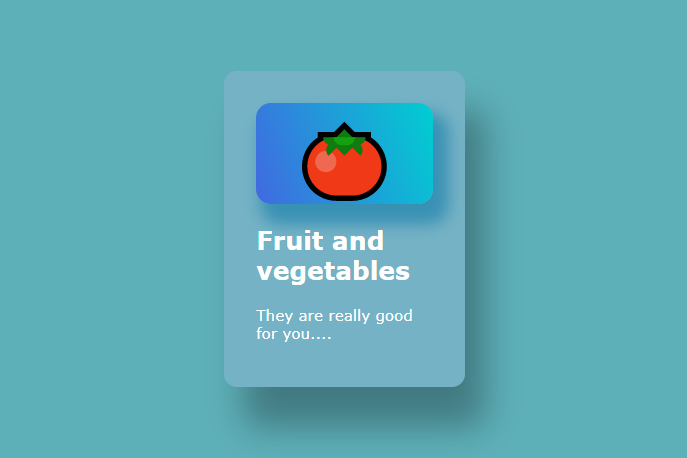
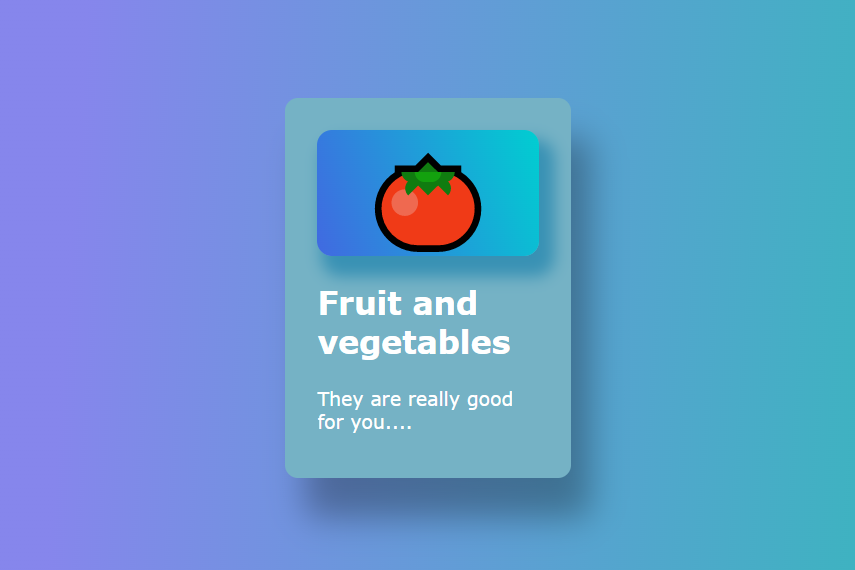
Projects recolored, new thumbnails

diff --git a/react-portfolio-gergely/src/Components/Projects.jsx b/react-portfolio-gergely/src/Components/Projects.jsx
@@ -14,7 +14,7 @@ const projects = {
     description:
       "React App that can generate random wisdoms fetched from an API; stores information about them in a searchable library and in local storage",
     tech: "RESTful API, React, CSS ",
-    link: "https://630f24bd5d2985782545567d--brilliant-semolina-fe6b3a.netlify.app/",
+    link: "https://brilliant-semolina-fe6b3a.netlify.app/",
     thumbnail: dailyImg,
     github:
       "https://github.com/gimesi13/Learning-React/tree/main/wishes-project",
@@ -23,7 +23,7 @@ const projects = {
     name: "React Todo",
     description: "Todo List with local storage built with React",
     tech: " React, CSS ",
-    link: "https://630f46dba4f93a128ec222d8--whimsical-cascaron-343463.netlify.app/",
+    link: "https://whimsical-cascaron-343463.netlify.app/",
     thumbnail: todoImg,
     github: "https://github.com/gimesi13/Learning-React/tree/main/react-todo",
   },
@@ -31,7 +31,7 @@ const projects = {
     name: "Framer Motion",
     description: "Some basic Framer Motion animations in a simle project",
     tech: " React, CSS, Framer Motion ",
-    link: "https://630f4991a273c6006e1ffa19--neon-dusk-d9a33c.netlify.app/",
+    link: "https://neon-dusk-d9a33c.netlify.app/",
     thumbnail: framerImg,
     github:
       "https://github.com/gimesi13/Framer-Motion-React/tree/master/framer-motion/framer-motion-2/framer-animations-2",

diff --git a/react-portfolio-gergely/src/Components/Project.jsx b/react-portfolio-gergely/src/Components/Project.jsx
@@ -27,21 +27,10 @@ function Project({ project }) {
     },
   };
 
-  const animateProjectCard = {
-    hidden: {
-      opacity: 0,
-      y: 20,
-    },
-    show: {
-      opacity: 1,
-      y: 0,
-    },
-  };
 
   return (
     <motion.div
       className="project"
-      variants={animateProjectCard}
       initial="hidden"
       onClick={() => {
         isOpen === false ? setIsOpen(true) : setIsOpen(!isOpen);
@@ -52,7 +41,7 @@ function Project({ project }) {
       onHoverEnd={() => {
         setIsOpen(false);
       }}
-      whileInView="show"
+      
       viewport={{ once: false, amount: 0.3 }}
     >
       <img className="project-thumbnail" src={project.thumbnail} alt="" />

diff --git a/react-portfolio-gergely/src/App.js b/react-portfolio-gergely/src/App.js
@@ -23,3 +23,5 @@ function App() {
 export default App;
 
 //recoloring some of the projects
+//projects hover phone css
+//more whileinview animations

diff --git a/react-portfolio-gergely/src/Components/Styles/style.scss b/react-portfolio-gergely/src/Components/Styles/style.scss
@@ -27,10 +27,6 @@ body {
   background: black;
 }
 
-.fixed_body {
-  overflow: hidden;
-  block-size: 100%;
-}
 
 .App {
   width: 100%;
